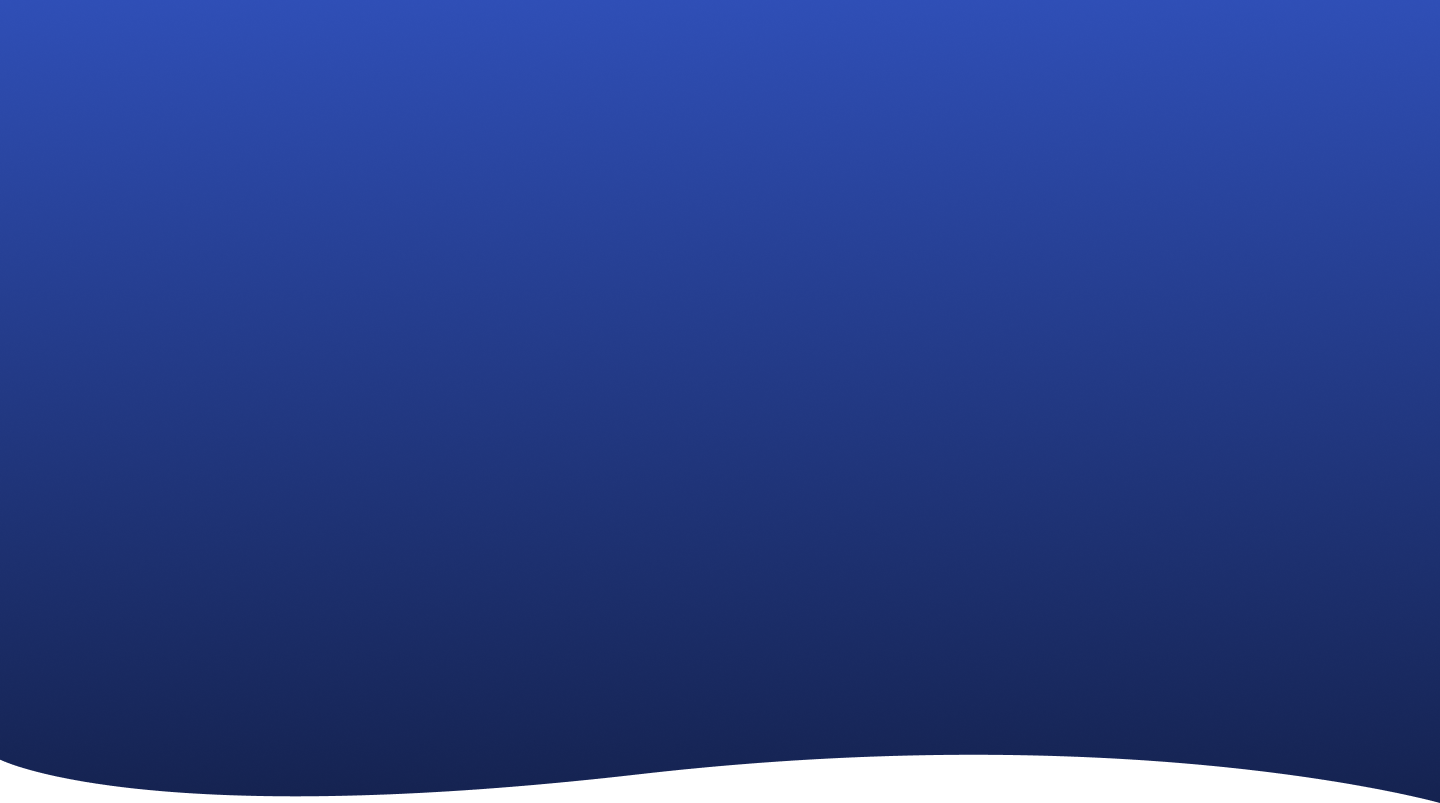
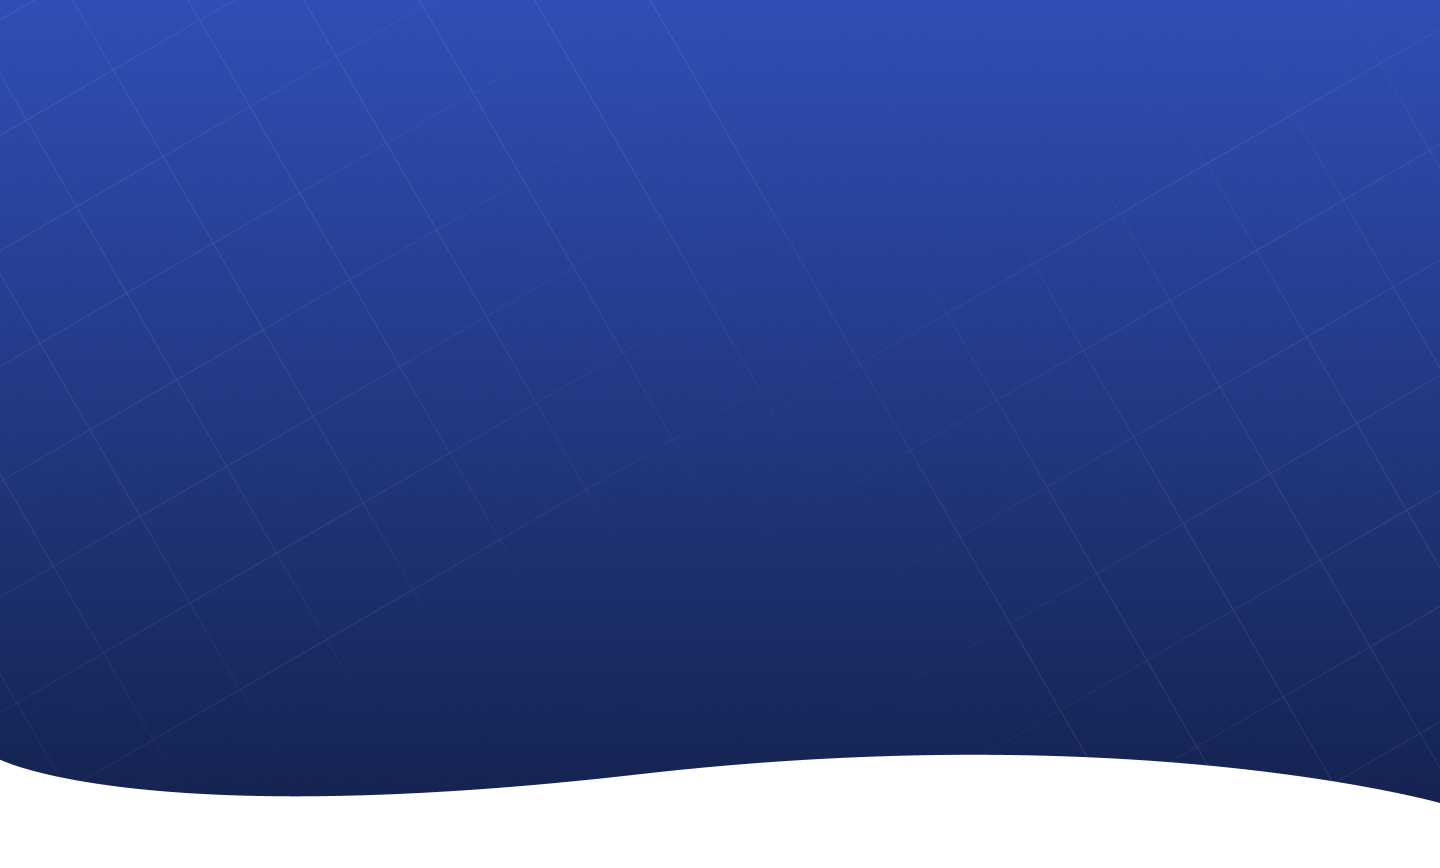
nav-bar-complete

Changed region(s): [[0.0, 0.8717, 1.0, 1.0]]

diff --git a/index.html b/index.html
@@ -22,13 +22,14 @@
     <!--------slider-links-------->
 </head>
 
-<body>
-    <section>
-        <nav class="py-16 w-100 bg-black">
-            <div class="container max-w-1140">
+<body class="popins-family">
+    <section class="hero-bg min-vh-100 position-relative">
+        <nav class="py-4 w-100">
+            <div class="container mx-w-1240 bg-white nav-bg py-16 px-24">
                 <div class="d-flex align-items-center justify-content-between w-100">
-                    <a class="text-white fw-semilbold fs-5 text-decoration-none z-6" href="">
-                        logo</a>
+                    <a class="text-decoration-none z-6 nav-logo" href="">
+                        <img src="./assets/image/svg/logo.svg" alt="logo">
+                    </a>
                     <div onclick="navbarbtn()" class="z-5 d-lg-none cursor-pointer">
                         <span class="menu-lines bg-light" id="rotates"></span>
                         <span class="menu-lines bg-light" id="transparent"></span>
@@ -42,37 +43,26 @@
                         </li>
                         <li>
                             <ul
-                                class="d-flex mb-0 align-items-center gap-24 list-unstyled justify-content-center flex-column flex-lg-row">
-                                <li><a class="text-decoration-none text-hover navbar-link text-white fw-semilbold fs-5"
-                                        href="/">About</a>
+                                class="d-flex mb-0 align-items-center gap-32 list-unstyled justify-content-center flex-column flex-lg-row">
+                                <li><a class="text-decoration-none text-grey fw-normal fs-md lh-100" href="/">Home</a>
                                 </li>
-                                <li><a class="text-decoration-none text-hover navbar-link text-white fw-semilbold fs-5"
-                                        href="/">How It Works</a>
+                                <li><a class="text-decoration-none text-grey fw-normal fs-md lh-100" href="/">About
+                                        Us</a>
                                 </li>
-                                <li><a class="text-decoration-none text-hover navbar-link text-white fw-semilbold fs-5"
-                                        href="/">Services</a></li>
-                                <li><a class="text-decoration-none text-hover navbar-link text-white fw-semilbold fs-5"
-                                        href="/">Testimonials</a>
+                                <li><a class="text-decoration-none text-grey fw-normal fs-md lh-100" href="/">Why
+                                        SED</a></li>
+                                <li><a class="text-decoration-none text-grey fw-normal fs-md lh-100" href="/">UB
+                                        Program</a>
                                 </li>
-                                <li><a class="text-decoration-none text-hover navbar-link text-white fw-semilbold fs-5"
-                                        href="/">Why Us</a>
-                                </li>
-                                <li><a class="text-decoration-none text-hover navbar-link text-white fw-semilbold fs-5"
-                                        href="/">FAQ</a>
+                                <li><a class="text-decoration-none text-grey fw-normal fs-md lh-100" href="/">Affiliate
+                                        & Influencer Program</a>
                                 </li>
                             </ul>
                         </li>
                         <li>
                             <ul class="d-flex list-unstyled mb-0">
                                 <li class="d-flex align-items-center justify-content-center mt-4 mt-lg-0">
-                                    <button class="nav-btn">Get
-                                        Started <span><svg class="ml-8 nav-arrow-svg" width="15" height="16"
-                                                viewBox="0 0 15 16" fill="none" xmlns="http://www.w3.org/2000/svg">
-                                                <path d="M1 14.3691L14 1.36914M14 1.36914V13.8491M14 1.36914H1.52"
-                                                    stroke="#00171F" stroke-width="1.93338" stroke-linecap="round"
-                                                    stroke-linejoin="round" />
-                                            </svg>
-                                        </span></button>
+                                    <button class="nav-btn text-white fs-md fw-semibold lh-100 lts-0">Join Now</button>
                                 </li>
                             </ul>
                         </li>

diff --git a/assets/css/style.css b/assets/css/style.css
@@ -1,8 +1,14 @@
+@import url('https://fonts.googleapis.com/css2?family=Poppins:ital,wght@0,100;0,200;0,300;0,400;0,500;0,600;0,700;0,800;0,900;1,100;1,200;1,300;1,400;1,500;1,600;1,700;1,800;1,900&display=swap');
+
+.popins-family {
+    font-family: "Poppins", sans-serif;
+}
+
 .menu-lines {
     width: 30px;
     height: 5px;
     margin-bottom: 5px;
-    background-color: white;
+    background: linear-gradient(180deg, #2F4FB6 0%, #152350 100%) !important;
     z-index: 10;
     transition: all 300ms linear;
     border-radius: 10px;
@@ -23,16 +29,82 @@
     transform: rotate(-44deg);
 }
 
-.gap-24 {
-    gap: 24px;
+.gap-32 {
+    gap: 32px;
 }
+
 /* ---------section-1---------- */
+.hero-bg {
+    background-image: url(../image/png/hero-bg.png);
+    background-size: 100% 100%;
+    background-repeat: no-repeat;
+}
+
+.hero-left-layer {
+    left: -14%;
+    top: -44%;
+}
+
+.mx-w-1240 {
+    max-width: 1240px !important;
+}
+
+.nav-bg {
+    border-radius: 65px;
+}
+
+.py-16 {
+    padding-top: 16px;
+    padding-bottom: 16px;
+}
+
+.px-24 {
+    padding-left: 24px;
+    padding-right: 24px;
+}
+
+.nav-btn {
+    border-radius: 103px;
+    padding: 12px 24px;
+    background: linear-gradient(180deg, #2F4FB6 0%, #152350 100%);
+    transition: all 200ms linear;
+    border: 2px solid;
+}
+
+.nav-btn:hover {
+    border-radius: 103px;
+    padding: 12px 24px;
+    background: white;
+    color: #2F4EB5 !important;
+}
+
+/* ----------line-height----------- */
+.lh-100 {
+    line-height: 100%;
+}
+
+.lh-135 {
+    line-height: 135%;
+}
+
+.lh-120 {
+    line-height: 120%;
+}
+
+.lh-150 {
+    line-height: 150%;
+}
+
+.lts-0 {
+    letter-spacing: 0;
+}
+
 @media (max-width:991.98px) {
 
     .nav-link {
         display: flex !important;
         flex-direction: column;
-        background: #00243C !important;
+        background: white !important;
         width: 100%;
         min-height: 100vh;
         position: fixed;

diff --git a/assets/css/root.css b/assets/css/root.css
@@ -1,0 +1,63 @@
+:root {
+    --fs-sm: 12px;
+    --fs-md: 16px;
+    --fs-lg: 20px;
+    --fs-xl: 28px;
+    --fs-2xl: 48px;
+    /* ----color's---- */
+    --color-grey: #4D4D4D;
+    --dark-blue: #294B78;
+    --color-orenge: #FF6D41;
+    --color-green: #01981C;
+    --light-grey: #696971;
+    --color-red: #A40707;
+    --bold-grey: #43434D;
+}
+
+.fs-sm {
+    font-size: var(--fs-sm) !important;
+}
+
+.fs-md {
+    font-size: var(--fs-md) !important;
+}
+
+.fs-lg {
+    font-size: var(--fs-lg) !important;
+}
+
+.fs-xl {
+    font-size: var(--fs-xl) !important;
+}
+
+.fs-2xl {
+    font-size: var(--fs-2xl) !important;
+}
+
+.text-grey {
+    color: var(--color-grey) !important;
+}
+
+.text-blue {
+    color: var(--dark-blue) !important;
+}
+
+.text-orenge {
+    color: var(--color-orenge) !important;
+}
+
+.text-green {
+    color: var(--color-green) !important;
+}
+
+.light-grey {
+    color: var(--light-grey) !important;
+}
+
+.text-red {
+    color: var(--color-red) !important;
+}
+
+.bold-grey {
+    color: var(--bold-grey) !important;
+}
